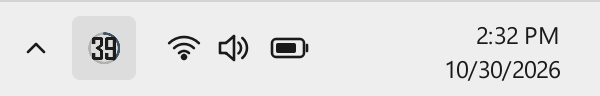
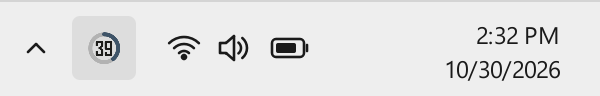
Tray ring thicker, its number smaller
The digits filled the ring to its edge and the ring was 1.6 px at 125 %
scaling, so the number hid it. The ring is now 13 % of the icon (at least
2 px) and the digits one size smaller at every pixel size (3x7 at 16 px,
5x9 at 20-24 px, 3x7 doubled at 30-32 px, 5x9 doubled at 40 px; "100"
smaller again), leaving a gap of a pixel or more to the ring. The font
used at larger sizes keeps the same margin. The 16 px "7" gets a slant so
it no longer reads as a 1. README taskbar images redrawn.

Changed region(s): [[0.15, 0.3438, 0.21, 0.6562]]

diff --git a/quotaring/app.py b/quotaring/app.py
@@ -78,29 +78,29 @@ _DIGITS_5x9 = {
     "8": ".###.|##.##|##.##|##.##|.###.|##.##|##.##|##.##|.###.",
     "9": ".###.|##.##|##.##|##.##|.####|...##|...##|...##|.###.",
 }
-_DIGITS_6x11 = {
-    "0": ".####.|##..##|##..##|##..##|##..##|##..##|##..##|##..##|##..##|##..##|.####.",
-    "1": "..##..|.###..|..##..|..##..|..##..|..##..|..##..|..##..|..##..|..##..|..##..",
-    "2": ".####.|##..##|....##|....##|...##.|..##..|.##...|##....|##....|##....|######",
-    "3": ".####.|##..##|....##|....##|....##|..###.|....##|....##|....##|##..##|.####.",
-    "4": "....##|...###|..####|.##.##|##..##|##..##|######|....##|....##|....##|....##",
-    "5": "######|##....|##....|##....|#####.|....##|....##|....##|....##|##..##|.####.",
-    "6": ".####.|##....|##....|##....|#####.|##..##|##..##|##..##|##..##|##..##|.####.",
-    "7": "######|....##|....##|....##|...##.|...##.|..##..|..##..|..##..|..##..|..##..",
-    "8": ".####.|##..##|##..##|##..##|##..##|.####.|##..##|##..##|##..##|##..##|.####.",
-    "9": ".####.|##..##|##..##|##..##|##..##|.#####|....##|....##|....##|....##|.####.",
+_DIGITS_3x7 = {
+    "0": "###|#.#|#.#|#.#|#.#|#.#|###",
+    "1": ".#|##|.#|.#|.#|.#|.#",
+    "2": "###|..#|..#|###|#..|#..|###",
+    "3": "###|..#|..#|###|..#|..#|###",
+    "4": "#.#|#.#|#.#|###|..#|..#|..#",
+    "5": "###|#..|#..|###|..#|..#|###",
+    "6": "###|#..|#..|###|#.#|#.#|###",
+    "7": "###|..#|..#|.#.|.#.|.#.|.#.",
+    "8": "###|#.#|#.#|###|#.#|#.#|###",
+    "9": "###|#.#|#.#|###|..#|..#|###",
 }
-_DIGITS_100_SMALL = {"0": "###|#.#|#.#|#.#|#.#|#.#|###", "1": ".#|##|.#|.#|.#|.#|.#"}
 _DIGITS_100 = {**_DIGITS_5x9, "1": ".##|###|.##|.##|.##|.##|.##|.##|.##"}
-# Icon size -> (glyphs for up to two digits, glyphs for three, scale). Larger sizes draw the font.
+# Icon size -> ((glyphs, scale) for up to two digits, (glyphs, scale) for three). Larger sizes draw
+# the font. The digits keep a gap to the ring, so the ring reads as one at a glance.
 _PIXEL_DIGITS = {
-    16: (_DIGITS_5x9, _DIGITS_100_SMALL, 1),
-    20: (_DIGITS_6x11, _DIGITS_100, 1),
-    22: (_DIGITS_6x11, _DIGITS_100, 1),
-    24: (_DIGITS_6x11, _DIGITS_100, 1),
-    30: (_DIGITS_5x9, _DIGITS_100_SMALL, 2),
-    32: (_DIGITS_5x9, _DIGITS_100_SMALL, 2),
-    40: (_DIGITS_6x11, _DIGITS_100, 2),
+    16: ((_DIGITS_3x7, 1), (_DIGITS_3x7, 1)),
+    20: ((_DIGITS_5x9, 1), (_DIGITS_3x7, 1)),
+    22: ((_DIGITS_5x9, 1), (_DIGITS_3x7, 1)),
+    24: ((_DIGITS_5x9, 1), (_DIGITS_3x7, 1)),
+    30: ((_DIGITS_3x7, 2), (_DIGITS_100, 1)),
+    32: ((_DIGITS_3x7, 2), (_DIGITS_100, 1)),
+    40: ((_DIGITS_5x9, 2), (_DIGITS_3x7, 2)),
 }
 
 
@@ -108,8 +108,7 @@ def _pixel_digits(text: str, size: int) -> tuple[list[list[str]], int] | None:
     """The text's hand-drawn glyph rows and their scale at this icon size, or None to draw the font."""
     if size not in _PIXEL_DIGITS or len(text) > 3:
         return None
-    short, long, scale = _PIXEL_DIGITS[size]
-    table = short if len(text) <= 2 else long
+    table, scale = _PIXEL_DIGITS[size][len(text) > 2]
     if any(c not in table for c in text):
         return None
     return [table[c].split("|") for c in text], scale
@@ -128,7 +127,7 @@ def make_ring_icon(ring: dict, show_remaining: bool, p: theme.Palette) -> QIcon:
         pm.fill(QColor(0, 0, 0, 0))
         painter = QPainter(pm)
         painter.setRenderHint(QPainter.Antialiasing)
-        lw = max(1.5, size * 0.08)  # a thin ring leaves the digits more room
+        lw = max(2.0, size * 0.13)  # thick enough to read as a ring beside the number
         rect = QRectF(lw / 2, lw / 2, size - lw, size - lw)
         painter.setPen(QPen(track, lw))
         painter.drawEllipse(rect)
@@ -152,13 +151,13 @@ def make_ring_icon(ring: dict, show_remaining: bool, p: theme.Palette) -> QIcon:
             painter.end()
             icon.addPixmap(pm)
             continue
-        # The number as large as the inside of the ring allows: tray icons are tiny.
+        # The number large, with a gap to the ring.
         font = _tray_font()
         px = round(inner * 1.3)
         while True:
             font.setPixelSize(px)
             ink = QFontMetricsF(font).tightBoundingRect(text)
-            if px <= 6 or (ink.width() <= inner * 0.98 and ink.height() <= inner * 0.84):
+            if px <= 6 or (ink.width() <= inner * 0.8 and ink.height() <= inner * 0.66):
                 break
             px -= 1
         painter.setFont(font)

diff --git a/CHANGELOG.md b/CHANGELOG.md
@@ -6,6 +6,10 @@ The format follows [Keep a Changelog](https://keepachangelog.com/en/1.1.0/), and
 
 ## [Unreleased]
 
+### Changed
+- The tray icon's ring is thicker and its number smaller, with a gap between them, so the ring
+  reads at a glance instead of disappearing behind the digits.
+
 ## [0.2.3] - 2026-10-30
 
 ### Fixed
